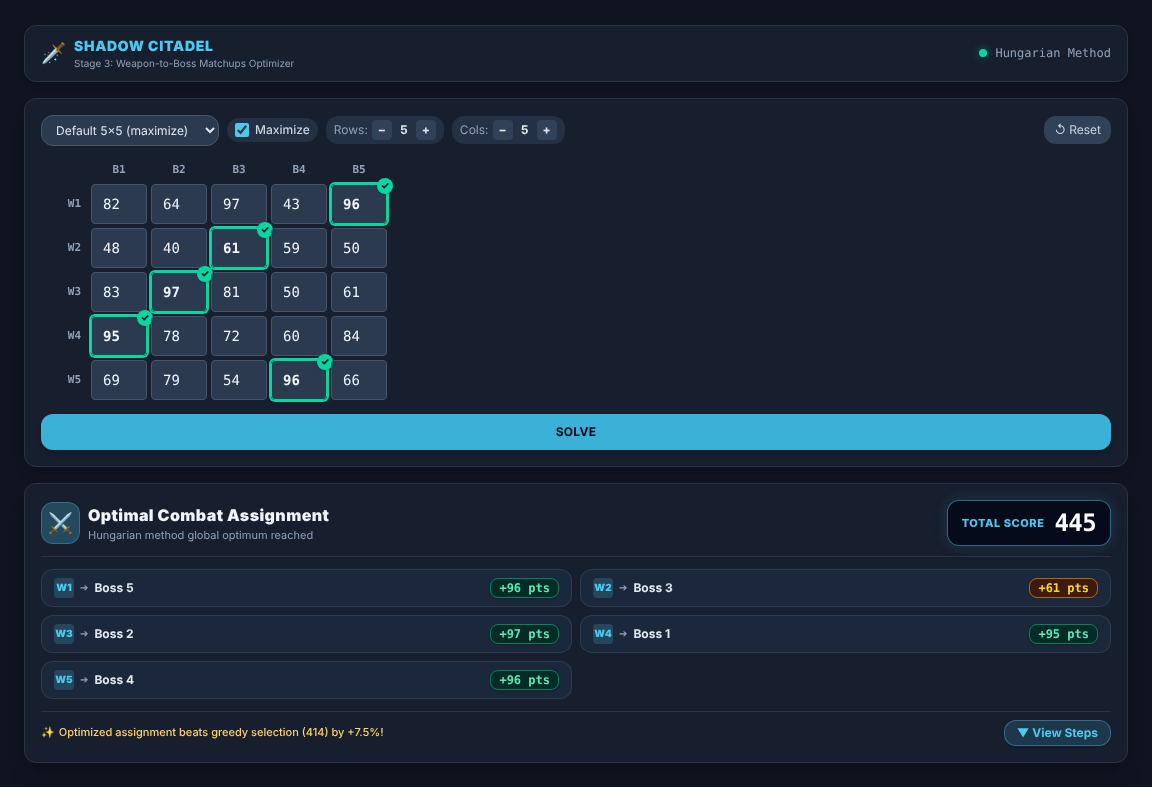
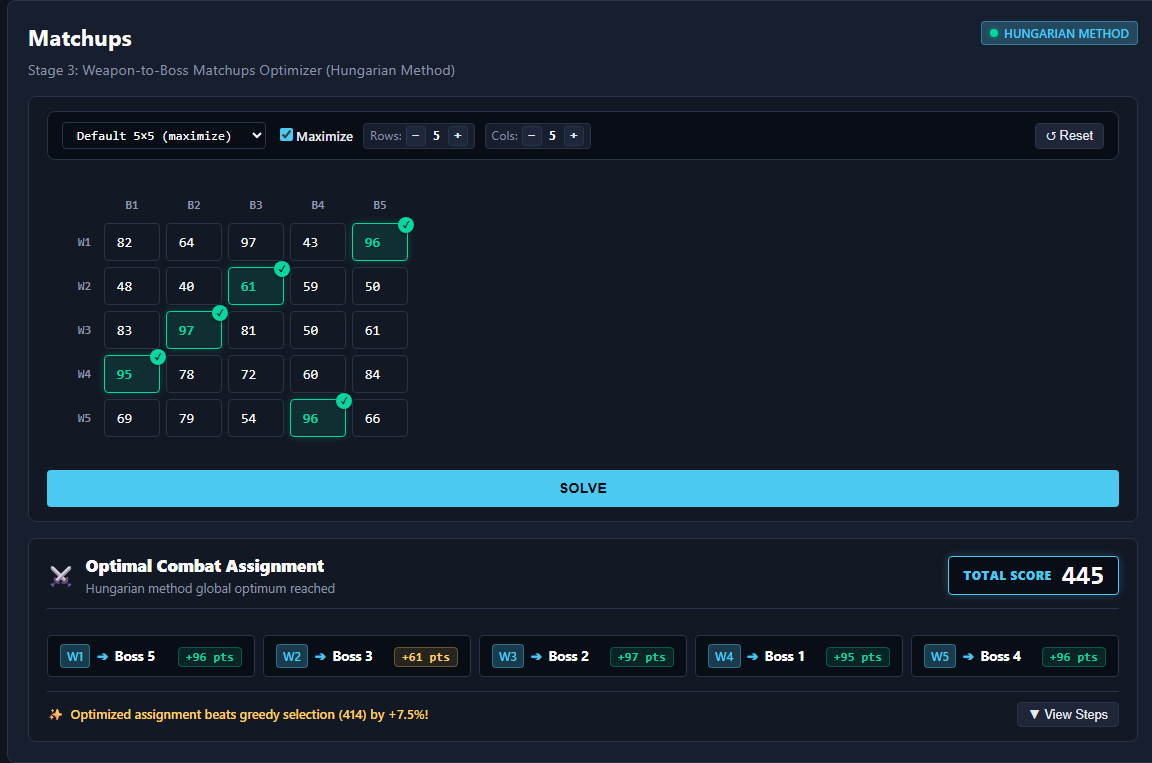
docs(part-8): revert package-lock.json, retake UI screenshots with vanilla CSS, clean up PR docs

diff --git a/docs/pr/part-8-matchups-pr.md b/docs/pr/part-8-matchups-pr.md
@@ -18,12 +18,11 @@ Matchups tab: editable score grid, Solve, result panel with greedy comparison, a
 | `fixtures/assign_4x5.json`, `fixtures/assign_adjust_min.json` | new fixtures (both match the live backend output) | cover 4x5 and minimize cases |
 | `backend/tests/test_contract_shapes.py` | both fixtures added to `KINDS`; new `test_wide_and_minimize_assign_fixtures` | registered under the assign shape |
 | `backend/tests/test_data_integrity.py` | both fixtures added to the envelope list | same |
-| `frontend/package.json`, `frontend/package-lock.json`, `frontend/vite.config.js`, `frontend/src/theme.css` | drops Tailwind CSS v4 in favor of semantic `theme.css` classes | avoids global reset / Preflight conflicts with other tabs and keeps bundle size minimal |
+| `frontend/src/theme.css` | adds semantic classes for matrix, result cards, and alert banners | styles Matchups with shared tokens without introducing CSS framework dependencies |
 | `docs/api-contract.md` | fixtures list updated | same |
 | `docs/decisions.md` | rows 11 (CSS decision) and 12 (fixture routing) | shared files were changed without a log entry |
 
 ## Open items
-- **Tailwind (decisions row 11):** dropped completely following review to prevent global reset conflicts; Matchups restyled in vanilla `theme.css`.
 - **Grid to Scenario panel sync:** `App.jsx` does not pass `onScoresChange`, and `ScenarioPanel` has no editor for `weapon_boss_scores`. The tab already calls `onScoresChange` if given. This is a Part 6 decision and is not part of this PR.
 - **Part 10:** the values to expect (445, 414, 385, 349, 17, 116) are in report section 7.2; to be confirmed with Part 10.
 - Phone width: the step matrix still scrolls sideways.

diff --git a/docs/pr/CHANGED_FILES.md b/docs/pr/CHANGED_FILES.md
@@ -2,4 +2,4 @@
 
 Part 8 (owner): `frontend/src/tabs/MatchupsTab.jsx`, `frontend/src/tabs/matchups/*`, `frontend/src/__tests__/MatchupsTab.test.jsx`, `docs/report/part-8-matchups.md`, `docs/report/screenshots/*`, `docs/pr/*`
 
-Shared (needs review from the owner): `frontend/src/api.js`, `frontend/src/__tests__/api.test.js`, `frontend/src/__tests__/App.test.jsx`, `frontend/package.json`, `frontend/package-lock.json`, `frontend/vite.config.js`, `frontend/src/theme.css`, `fixtures/assign_4x5.json`, `fixtures/assign_adjust_min.json`, `backend/tests/test_contract_shapes.py`, `backend/tests/test_data_integrity.py`, `docs/api-contract.md`, `docs/decisions.md`
+Shared (needs review from the owner): `frontend/src/api.js`, `frontend/src/__tests__/api.test.js`, `frontend/src/__tests__/App.test.jsx`, `frontend/src/theme.css`, `fixtures/assign_4x5.json`, `fixtures/assign_adjust_min.json`, `backend/tests/test_contract_shapes.py`, `backend/tests/test_data_integrity.py`, `docs/api-contract.md`, `docs/decisions.md`

diff --git a/docs/report/part-8-matchups.md b/docs/report/part-8-matchups.md
@@ -142,7 +142,7 @@ The tab opens with the grid only (nothing is solved). The result appears when th
 ```
 
 ### 3.2 Visual tokens and colour legend
-Colours come from the `theme.css` tokens (`--panel`, `--panel-border`, `--accent`, `--ok`, `--warn`) plus Tailwind utilities (see `docs/decisions.md`, item 11).
+Colours come from the `theme.css` tokens (`--panel`, `--panel-border`, `--accent`, `--ok`, `--warn`) using semantic classes (see `docs/decisions.md`, item 11).
 - **Green ring and tick (`--ok`):** the chosen pair. The tick means the meaning does not depend on colour alone.
 - **Orange ring:** a cell that changed since the previous step.
 - **Blue "ZERO" cell:** a zero in the current matrix.
